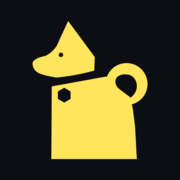
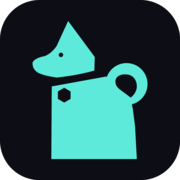
Сайт: бирюзовая палитра вместо жёлтой, фото и рендеры напечатанного Skladen 2.1.1

diff --git a/index.html b/index.html
@@ -53,11 +53,11 @@
   <div>
     <h1>Палмтоп из телефона и клавиатуры</h1>
     <p class="lede">Mitya Labs делает Skladen: напечатанный на 3D-принтере палмтоп, который превращает Xiaomi Pocophone F1 в карманный терминал в форме ноутбука, и skladenOS, систему для него.</p>
-    <p class="status"><strong>Skladen 2.1 напечатан и собран.</strong> skladenOS в разработке: готовых образов пока нет.</p>
+    <p class="status"><strong>Skladen 2.1.1 напечатан и собран.</strong> skladenOS в разработке: готовых образов пока нет.</p>
   </div>
   <figure class="shot">
-    <img src="assets/img/skladen2-photo.jpg" width="1100" height="729" alt="Напечатанный Skladen 2.1 на столе, открытый: Pocophone F1 под рамкой на защёлках в прозрачной крышке, клавиатура Jomaa в основании">
-    <figcaption>Skladen 2.1.0: Pocophone F1 в прозрачной крышке из PETG, клавиатура Jomaa в основании. На экране рабочая сборка, из которой вырастает skladenOS.</figcaption>
+    <img src="assets/img/skladen2-photo.jpg" width="1100" height="825" alt="Напечатанный Skladen 2.1.1 на столе, открытый: Pocophone F1 под рамкой на защёлках в бирюзовой крышке, клавиатура Jomaa в прозрачном основании">
+    <figcaption>Skladen 2.1.1: Pocophone F1 в бирюзовой крышке из PETG, клавиатура Jomaa в прозрачном основании. На экране рабочая сборка, из которой вырастает skladenOS.</figcaption>
   </figure>
 </div>
 
@@ -66,7 +66,7 @@
 <p>Крышка держит телефон под рамкой на защёлках, в основании клавиатура Jomaa KEYBOARD098RU из чехла-книжки. Всё напечатано, петли держатся на двух болтах M3. Конструкция описана кодом (build123d): размеры и проверки считаются при сборке модели.</p>
 <dl class="feat"><dt>Телефон</dt><dd>Xiaomi Pocophone F1, 155,5 × 75,3 × 9,25 мм, 182 г</dd><dt>Клавиатура</dt><dd>Jomaa KEYBOARD098RU</dd><dt>В сложенном виде</dt><dd>24,29 мм у петли, 20,31 мм спереди</dd><dt>Масса</dt><dd>около 403 г по модели</dd></dl>
 <h3>Версии</h3>
-<div class="table-wrap"><table class="ver"><thead><tr><th scope="col">Версия</th><th scope="col">Что это</th><th scope="col">Дата</th></tr></thead><tbody><tr><td><a href="https://github.com/mitya-labs/skladen/tree/v2.1.0">2.1.0</a></td><td>Skladen 2 с рамкой на защёлках; напечатан</td><td>2026-10-20</td></tr><tr><td><a href="https://github.com/mitya-labs/skladen/tree/v2.0.0">2.0.0</a></td><td>Skladen 2 под Pocophone F1, телефон на ленте; напечатан</td><td>2026-10-06</td></tr><tr><td><a href="https://github.com/mitya-labs/skladen/tree/v1.0.0">1.0.0</a></td><td>Skladen 1 под Pixel 3a XL; напечатан</td><td>2026-10-02</td></tr></tbody></table></div>
+<div class="table-wrap"><table class="ver"><thead><tr><th scope="col">Версия</th><th scope="col">Что это</th><th scope="col">Дата</th></tr></thead><tbody><tr><td><a href="https://github.com/mitya-labs/skladen/tree/v2.1.1">2.1.1</a></td><td>Рёбра обжима и язычки кнопок в крышке с рамкой; напечатан</td><td>2026-10-24</td></tr><tr><td><a href="https://github.com/mitya-labs/skladen/tree/v2.1.0">2.1.0</a></td><td>Skladen 2 с рамкой на защёлках; напечатан</td><td>2026-10-20</td></tr><tr><td><a href="https://github.com/mitya-labs/skladen/tree/v2.0.0">2.0.0</a></td><td>Skladen 2 под Pocophone F1, телефон на ленте; напечатан</td><td>2026-10-06</td></tr><tr><td><a href="https://github.com/mitya-labs/skladen/tree/v1.0.0">1.0.0</a></td><td>Skladen 1 под Pixel 3a XL; напечатан</td><td>2026-10-02</td></tr></tbody></table></div>
 <p class="note">Размеры и масса взяты из модели, замеры напечатанных экземпляров ещё не сведены. Последние правки рамки смоделированы и проверены, на печати не подтверждены.</p>
 <figure class="render"><img src="assets/img/skladen2-open.webp" width="1000" height="726" alt="Skladen 2, открытый на 112 градусов: в крышке телефон с терминалом, в основании клавиатура" loading="lazy"><figcaption>Открытый на 112°. Рендер из модели; телефон и клавиатура заменены заготовками по измеренным габаритам.</figcaption></figure>
 <figure class="render"><img src="assets/img/skladen2-closed.webp" width="1000" height="318" alt="Skladen 2 в сложенном виде, вид спереди справа" loading="lazy"><figcaption>Сложенный: 24,29 мм у петли.</figcaption></figure>

diff --git a/en/index.html b/en/index.html
@@ -53,11 +53,11 @@
   <div>
     <h1>A palmtop made of a phone and a keyboard</h1>
     <p class="lede">Mitya Labs builds Skladen, a 3D-printed palmtop that turns a Xiaomi Pocophone F1 into a pocketable laptop-shaped terminal, and skladenOS, the system for it.</p>
-    <p class="status"><strong>Skladen 2.1 is printed and assembled.</strong> skladenOS is in development: there are no images yet.</p>
+    <p class="status"><strong>Skladen 2.1.1 is printed and assembled.</strong> skladenOS is in development: there are no images yet.</p>
   </div>
   <figure class="shot">
-    <img src="../assets/img/skladen2-photo.jpg" width="1100" height="729" alt="The printed Skladen 2.1 on a desk, open: a Pocophone F1 under the clip-on bezel in a transparent lid, the Jomaa keyboard in the base">
-    <figcaption>Skladen 2.1.0: a Pocophone F1 in a transparent PETG lid, the Jomaa keyboard in the base. The screen runs the working build skladenOS grows out of.</figcaption>
+    <img src="../assets/img/skladen2-photo.jpg" width="1100" height="825" alt="The printed Skladen 2.1.1 on a desk, open: a Pocophone F1 under the clip-on bezel in a teal lid, the Jomaa keyboard in a clear base">
+    <figcaption>Skladen 2.1.1: a Pocophone F1 in a teal PETG lid, the Jomaa keyboard in a clear base. The screen runs the working build skladenOS grows out of.</figcaption>
   </figure>
 </div>
 
@@ -66,7 +66,7 @@
 <p>The lid holds the phone under a clip-on bezel, the base carries a Jomaa KEYBOARD098RU salvaged from a folio case. Everything is printed, and the hinge sits on two M3 bolts. The design is written as code (build123d): dimensions and checks are computed when the model is built.</p>
 <dl class="feat"><dt>Phone</dt><dd>Xiaomi Pocophone F1, 155.5 × 75.3 × 9.25 mm, 182 g</dd><dt>Keyboard</dt><dd>Jomaa KEYBOARD098RU</dd><dt>Closed</dt><dd>24.29 mm at the hinge, 20.31 mm at the front</dd><dt>Mass</dt><dd>about 403 g by the model</dd></dl>
 <h3>Versions</h3>
-<div class="table-wrap"><table class="ver"><thead><tr><th scope="col">Version</th><th scope="col">What</th><th scope="col">Date</th></tr></thead><tbody><tr><td><a href="https://github.com/mitya-labs/skladen/tree/v2.1.0">2.1.0</a></td><td>Skladen 2 with the clip-on bezel; printed</td><td>2026-10-20</td></tr><tr><td><a href="https://github.com/mitya-labs/skladen/tree/v2.0.0">2.0.0</a></td><td>Skladen 2 for the Pocophone F1, phone held by tape; printed</td><td>2026-10-06</td></tr><tr><td><a href="https://github.com/mitya-labs/skladen/tree/v1.0.0">1.0.0</a></td><td>Skladen 1 for the Pixel 3a XL; printed</td><td>2026-10-02</td></tr></tbody></table></div>
+<div class="table-wrap"><table class="ver"><thead><tr><th scope="col">Version</th><th scope="col">What</th><th scope="col">Date</th></tr></thead><tbody><tr><td><a href="https://github.com/mitya-labs/skladen/tree/v2.1.1">2.1.1</a></td><td>Crush ribs and button tongues in the bezel lid; printed</td><td>2026-10-24</td></tr><tr><td><a href="https://github.com/mitya-labs/skladen/tree/v2.1.0">2.1.0</a></td><td>Skladen 2 with the clip-on bezel; printed</td><td>2026-10-20</td></tr><tr><td><a href="https://github.com/mitya-labs/skladen/tree/v2.0.0">2.0.0</a></td><td>Skladen 2 for the Pocophone F1, phone held by tape; printed</td><td>2026-10-06</td></tr><tr><td><a href="https://github.com/mitya-labs/skladen/tree/v1.0.0">1.0.0</a></td><td>Skladen 1 for the Pixel 3a XL; printed</td><td>2026-10-02</td></tr></tbody></table></div>
 <p class="note">Dimensions and mass come from the model; measurements of the printed units are not collected yet. The latest bezel revisions are modelled and checked but not confirmed on a print.</p>
 <figure class="render"><img src="../assets/img/skladen2-open.webp" width="1000" height="726" alt="Skladen 2 rendered open at 112 degrees: the phone in the lid showing a terminal, the keyboard in the base" loading="lazy"><figcaption>Open at 112°. A render from the model; the phone and keyboard are stand-ins built from their measured envelopes.</figcaption></figure>
 <figure class="render"><img src="../assets/img/skladen2-closed.webp" width="1000" height="318" alt="Skladen 2 rendered closed, seen from the front right" loading="lazy"><figcaption>Closed: 24.29 mm at the hinge.</figcaption></figure>

diff --git a/style.css b/style.css
@@ -8,10 +8,10 @@
   --ink: #14151C;
   --muted: #474B5B;
   --crease: rgba(20, 21, 28, .16);
-  --fold-light: #F5B800;
-  --fold-mid: #D9A000;
-  --fold-dark: #B8860B;
-  --link: #7A5600;
+  --fold-light: #1FB5AE;
+  --fold-mid: #14968F;
+  --fold-dark: #0E7A75;
+  --link: #0A5C58;
   --focus: #14151C;
   --mono: "JetBrains Mono", ui-monospace, "SF Mono", Menlo, Consolas, monospace;
   --serif: "Iowan Old Style", "Palatino Linotype", Palatino, "Source Serif 4", Georgia, serif;
@@ -25,11 +25,11 @@
     --ink: #E8E9EF;
     --muted: #A5A9BA;
     --crease: rgba(255, 255, 255, .14);
-    --fold-light: #FFE55C;
-    --fold-mid: #E0C247;
-    --fold-dark: #B89B33;
-    --link: #FFE55C;
-    --focus: #FFE55C;
+    --fold-light: #5EEADB;
+    --fold-mid: #3FCFC0;
+    --fold-dark: #2AA79B;
+    --link: #5EEADB;
+    --focus: #5EEADB;
   }
 }
 

diff --git a/tools/build.py b/tools/build.py
@@ -72,7 +72,7 @@ PAGE = '''<!doctype html>
     <p class="status">{status}</p>
   </div>
   <figure class="shot">
-    <img src="{up}assets/img/skladen2-photo.jpg" width="1100" height="729" alt="{photo_alt}">
+    <img src="{up}assets/img/skladen2-photo.jpg" width="1100" height="825" alt="{photo_alt}">
     <figcaption>{photo_cap}</figcaption>
   </figure>
 </div>
@@ -140,9 +140,9 @@ RU = dict(
     desc="Mitya Labs делает Skladen, напечатанный палмтоп, который превращает Xiaomi Pocophone F1 в карманный терминал, и skladenOS, систему для него.",
     h1="Палмтоп из телефона и клавиатуры",
     lede="Mitya Labs делает Skladen: напечатанный на 3D-принтере палмтоп, который превращает Xiaomi Pocophone F1 в карманный терминал в форме ноутбука, и skladenOS, систему для него.",
-    status="<strong>Skladen 2.1 напечатан и собран.</strong> skladenOS в разработке: готовых образов пока нет.",
-    photo_alt="Напечатанный Skladen 2.1 на столе, открытый: Pocophone F1 под рамкой на защёлках в прозрачной крышке, клавиатура Jomaa в основании",
-    photo_cap="Skladen 2.1.0: Pocophone F1 в прозрачной крышке из PETG, клавиатура Jomaa в основании. На экране рабочая сборка, из которой вырастает skladenOS.",
+    status="<strong>Skladen 2.1.1 напечатан и собран.</strong> skladenOS в разработке: готовых образов пока нет.",
+    photo_alt="Напечатанный Skladen 2.1.1 на столе, открытый: Pocophone F1 под рамкой на защёлках в бирюзовой крышке, клавиатура Jomaa в прозрачном основании",
+    photo_cap="Skladen 2.1.1: Pocophone F1 в бирюзовой крышке из PETG, клавиатура Jomaa в прозрачном основании. На экране рабочая сборка, из которой вырастает skladenOS.",
     cfg_h="Конфигуратор", cfg=configurator("Выберите детали Skladen 2 (крышку, рамку, базу) и скачайте файл для печати: STL или 3MF.", "Skladen 2 в сборке, можно вращать и раскрывать", "Открыть конфигуратор →", "ru"),
     s5h="Основа и права", s6h="Где следить",
     foot="© 2026 Mitya Labs. Страница обновляется по мере продвижения проектов.",
@@ -156,6 +156,7 @@ RU["sk"] = "\n".join([
         ("Масса", "около 403 г по модели")], "feat"),
     "<h3>Версии</h3>",
     table(("Версия", "Что это", "Дата"), [
+        ('<a href="%s/tree/v2.1.1">2.1.1</a>' % SK, "Рёбра обжима и язычки кнопок в крышке с рамкой; напечатан", "2026-10-24"),
         ('<a href="%s/tree/v2.1.0">2.1.0</a>' % SK, "Skladen 2 с рамкой на защёлках; напечатан", "2026-10-20"),
         ('<a href="%s/tree/v2.0.0">2.0.0</a>' % SK, "Skladen 2 под Pocophone F1, телефон на ленте; напечатан", "2026-10-06"),
         ('<a href="%s/tree/v1.0.0">1.0.0</a>' % SK, "Skladen 1 под Pixel 3a XL; напечатан", "2026-10-02")]),
@@ -198,9 +199,9 @@ EN = dict(
     desc="Mitya Labs builds Skladen, a printed palmtop that turns a Xiaomi Pocophone F1 into a pocketable terminal, and skladenOS, an operating system for it.",
     h1="A palmtop made of a phone and a keyboard",
     lede="Mitya Labs builds Skladen, a 3D-printed palmtop that turns a Xiaomi Pocophone F1 into a pocketable laptop-shaped terminal, and skladenOS, the system for it.",
-    status="<strong>Skladen 2.1 is printed and assembled.</strong> skladenOS is in development: there are no images yet.",
-    photo_alt="The printed Skladen 2.1 on a desk, open: a Pocophone F1 under the clip-on bezel in a transparent lid, the Jomaa keyboard in the base",
-    photo_cap="Skladen 2.1.0: a Pocophone F1 in a transparent PETG lid, the Jomaa keyboard in the base. The screen runs the working build skladenOS grows out of.",
+    status="<strong>Skladen 2.1.1 is printed and assembled.</strong> skladenOS is in development: there are no images yet.",
+    photo_alt="The printed Skladen 2.1.1 on a desk, open: a Pocophone F1 under the clip-on bezel in a teal lid, the Jomaa keyboard in a clear base",
+    photo_cap="Skladen 2.1.1: a Pocophone F1 in a teal PETG lid, the Jomaa keyboard in a clear base. The screen runs the working build skladenOS grows out of.",
     cfg_h="Configurator", cfg=configurator("Pick the Skladen 2 parts (lid, frame, base) and download a print file: STL or 3MF.", "Skladen 2 assembled: rotate it, open and close the lid", "Open the configurator →", "en"),
     s5h="Basis and rights", s6h="Follow along",
     foot="© 2026 Mitya Labs. This page is updated as the projects move along.",
@@ -214,6 +215,7 @@ EN["sk"] = "\n".join([
         ("Mass", "about 403 g by the model")], "feat"),
     "<h3>Versions</h3>",
     table(("Version", "What", "Date"), [
+        ('<a href="%s/tree/v2.1.1">2.1.1</a>' % SK, "Crush ribs and button tongues in the bezel lid; printed", "2026-10-24"),
         ('<a href="%s/tree/v2.1.0">2.1.0</a>' % SK, "Skladen 2 with the clip-on bezel; printed", "2026-10-20"),
         ('<a href="%s/tree/v2.0.0">2.0.0</a>' % SK, "Skladen 2 for the Pocophone F1, phone held by tape; printed", "2026-10-06"),
         ('<a href="%s/tree/v1.0.0">1.0.0</a>' % SK, "Skladen 1 for the Pixel 3a XL; printed", "2026-10-02")]),
